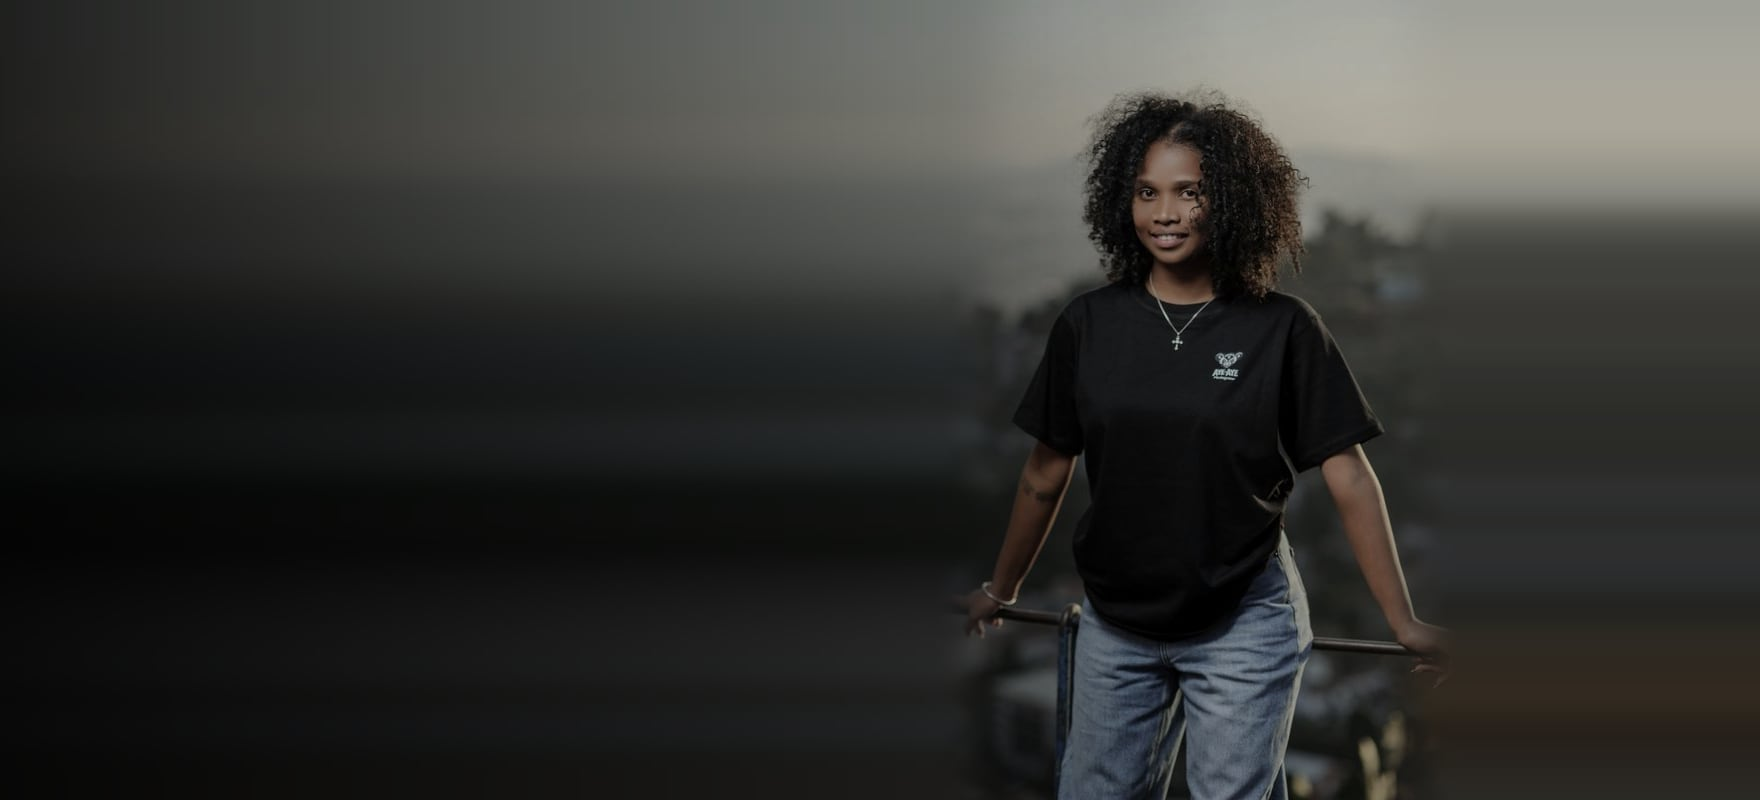
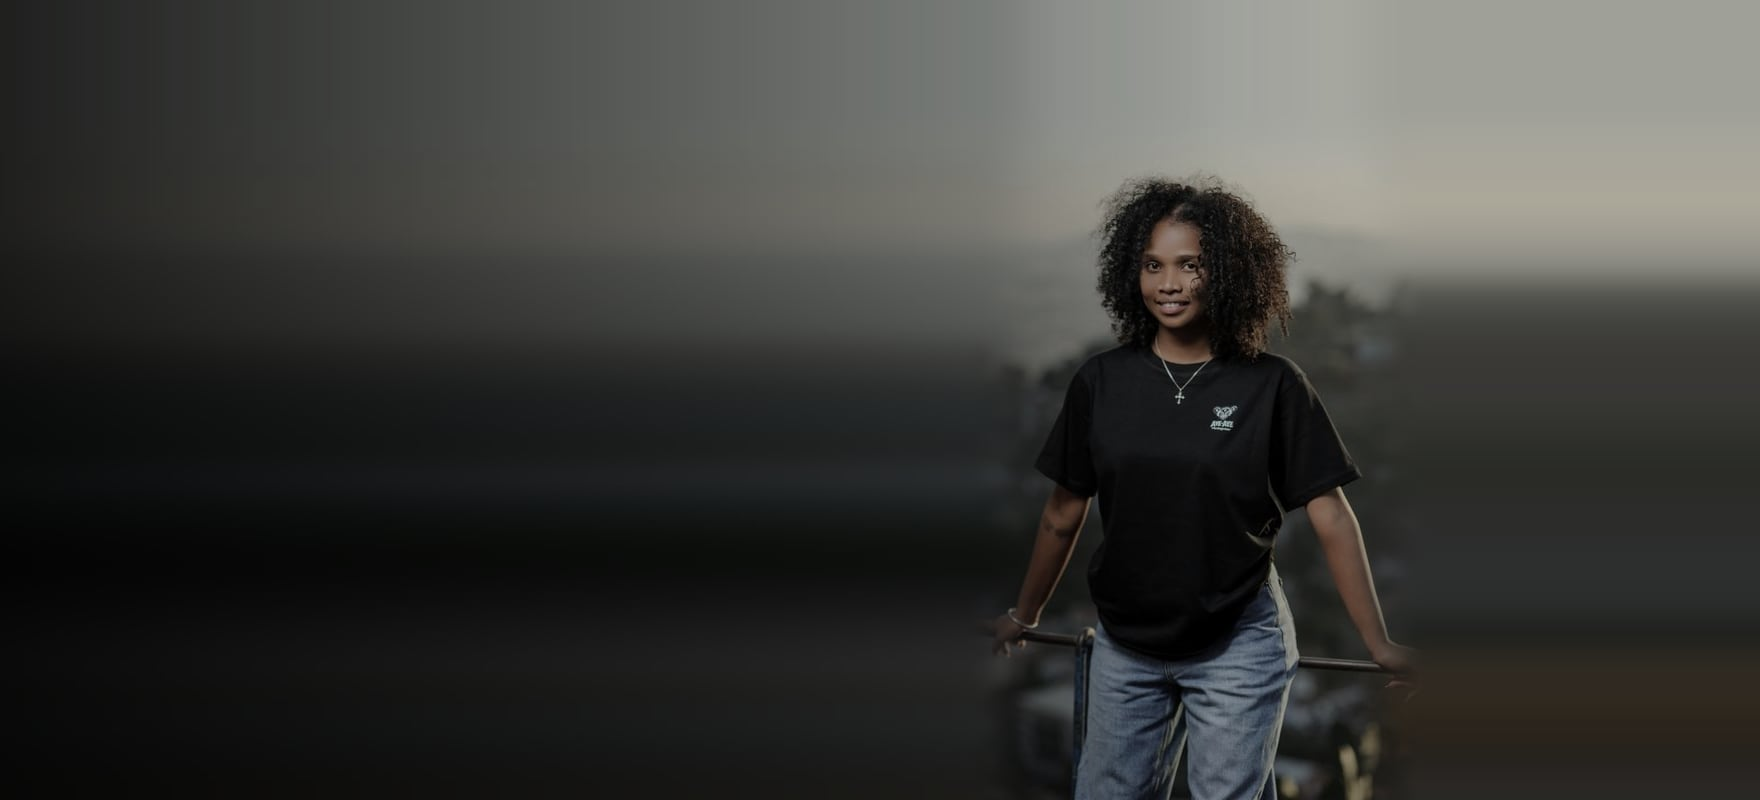
Bannière : défilement infini, sans points ; en-tête transparent sur tablette
- Carrousel en boucle infinie vers la gauche, sans pause au survol ;
  points supprimés (glissement du doigt seulement, touch-action: pan-y
  pour que le navigateur ne le prenne pas pour « page précédente »).
- En-tête transparent sur la bannière dès 768 px (tablette comprise).
- Images 1 et 3 : personnage réduit pour que la tête tombe, comme sur
  la photo au tee-shirt rouge, nettement sous l'en-tête.

Changed region(s): [[0.3438, 0.0938, 1.0, 1.0], [0.6875, 0.5, 0.7188, 0.5312]]

diff --git a/app/components/CarrouselBanniere.js b/app/components/CarrouselBanniere.js
@@ -2,20 +2,21 @@
 
 // Carrousel de la banniere d'accueil : les images glissent vers la gauche
 // sous le texte, qui reste fixe. Le texte est passe en `children` : il est
-// dans la zone du carrousel, si bien que le glissement du doigt et le survol
-// y fonctionnent aussi.
+// dans la zone du carrousel, si bien que le glissement du doigt y fonctionne
+// aussi.
 //
 // Composant React plutot qu'owl-carousel : la banniere n'est pas clonee par
 // owl, les gestionnaires React y fonctionnent, et chaque diapositive garde
 // ses trois formats (<picture> : mobile, tablette, ordinateur) et le
 // cadrage plein ecran d'aye-aye.css.
 //
-// - defilement toutes les 6 s vers la gauche, en pause au survol, au focus
-//   clavier et quand l'onglet est masque ; aucun defilement automatique si le
+// - defilement infini toutes les 6 s vers la gauche (apres la derniere image,
+//   la premiere revient par la droite), sans pause au survol, a la demande de
+//   la marque ; seulement suspendu quand l'onglet est masque, et absent si le
 //   visiteur a demande moins d'animations ;
-// - points (partout) et glissement du doigt ; revenir en arriere (doigt vers
-//   la droite, point precedent) fait glisser dans l'autre sens.
-// Pas de fleches, a la demande de la marque.
+// - glissement du doigt (tactile) ; vers la droite, l'image precedente revient
+//   par la gauche.
+// Ni fleches ni points, a la demande de la marque.
 
 import { useEffect, useRef, useState } from 'react';
 
@@ -27,7 +28,6 @@ export default function CarrouselBanniere({ diapos, children }) {
   const [precedent, setPrecedent] = useState(null);
   const [attente, setAttente] = useState(null); // diapositive placee, prete a entrer
   const [sens, setSens] = useState(1); // 1 : vers la gauche ; -1 : vers la droite
-  const [survol, setSurvol] = useState(false);
   const [cache, setCache] = useState(false);
   const depart = useRef(null);
   const nombre = diapos.length;
@@ -59,7 +59,7 @@ export default function CarrouselBanniere({ diapos, children }) {
 
   // defilement automatique, toujours vers la gauche
   useEffect(() => {
-    if (survol || cache || nombre < 2 || attente !== null) return undefined;
+    if (cache || nombre < 2 || attente !== null) return undefined;
     if (window.matchMedia('(prefers-reduced-motion: reduce)').matches) return undefined;
     const minuteur = setTimeout(() => aller(actif + 1, 1), DUREE);
     return () => clearTimeout(minuteur);
@@ -85,10 +85,6 @@ export default function CarrouselBanniere({ diapos, children }) {
       role="region"
       aria-roledescription="carrousel"
       aria-label="Bannière"
-      onMouseEnter={() => setSurvol(true)}
-      onMouseLeave={() => setSurvol(false)}
-      onFocus={() => setSurvol(true)}
-      onBlur={() => setSurvol(false)}
       onTouchStart={(e) => {
         depart.current = e.touches[0].clientX;
       }}
@@ -120,20 +116,6 @@ export default function CarrouselBanniere({ diapos, children }) {
 
       {children}
 
-      {nombre > 1 && (
-        <div className="aye-diapos-points">
-          {diapos.map((diapo, index) => (
-            <button
-              type="button"
-              key={diapo.large}
-              className={index === actif ? 'actif' : undefined}
-              aria-label={'Image ' + (index + 1) + ' sur ' + nombre}
-              aria-current={index === actif ? 'true' : undefined}
-              onClick={() => aller(index)}
-            />
-          ))}
-        </div>
-      )}
     </div>
   );
 }

diff --git a/public/assets/css/aye-aye.css b/public/assets/css/aye-aye.css
@@ -402,13 +402,10 @@ footer .aye-logo img[width][height] {
 }
 
 /* --- Banniere plein ecran (768 px et plus) ----------------------------------
-   Bord a bord, collee sous l'en-tete de 120 px (sans les 60 px blancs du
-   template), a la demande de la marque. Sur mobile, le hero l'est deja (voir
+   Bord a bord, a la demande de la marque ; elle passe sous l'en-tete
+   transparent (voir « en-tete transparent sur la banniere »). Sur mobile, le hero l'est deja (voir
    le bloc « Version mobile »). */
 @media (min-width: 768px) {
-  .main-banner {
-    padding-top: 120px;
-  }
   .main-banner > .container-fluid {
     padding-left: 0;
     padding-right: 0;
@@ -450,14 +447,14 @@ footer .aye-logo img[width][height] {
   }
 }
 
-/* --- Accueil, ordinateur : en-tete transparent sur la banniere ---------------
+/* --- Accueil, tablette et ordinateur : en-tete transparent sur la banniere -----
    Comme sur mobile : sur la banniere, l'en-tete est transparent (logo blanc,
    liens et icones blancs) et reste en place ; des que la banniere est
    depassee, aye-aye.js ajoute aye-entete-opaque et custom.js
    background-header : il redevient blanc (en-tete collant du template). La
    banniere remonte donc sous l'en-tete, et son texte descend de la moitie de
    la hauteur de l'en-tete pour rester centre dans la partie visible. */
-@media (min-width: 992px) {
+@media (min-width: 768px) {
   .header-area.aye-entete-sur-hero {
     position: fixed;
   }
@@ -491,11 +488,14 @@ footer .aye-logo img[width][height] {
 /* --- Carrousel de la banniere (CarrouselBanniere.js) ------------------------
    La premiere image reste dans le flux et donne la hauteur ; les suivantes se
    superposent exactement (memes formats). Elles glissent vers la gauche
-   (transform pose par le composant) ; le texte et les points passent
-   au-dessus. */
+   (transform pose par le composant) ; le texte passe au-dessus. */
 .aye-diapos {
   position: relative;
   overflow: hidden;
+  /* gestes horizontaux pour le carrousel (glissement du doigt), et non pour
+     le navigateur (sinon il les prend pour « page precedente ») ; le
+     defilement vertical de la page reste normal */
+  touch-action: pan-y;
 }
 
 .aye-diapo {
@@ -518,30 +518,6 @@ footer .aye-logo img[width][height] {
 
 .main-banner .left-content .thumb .inner-content {
   z-index: 3;
-}
-
-.aye-diapos-points {
-  position: absolute;
-  left: 50%;
-  bottom: 22px;
-  z-index: 4;
-  display: flex;
-  gap: 10px;
-  transform: translateX(-50%);
-}
-
-.aye-diapos-points button {
-  width: 10px;
-  height: 10px;
-  padding: 0;
-  border: 1px solid #fff;
-  border-radius: 50%;
-  background: transparent;
-  cursor: pointer;
-}
-
-.aye-diapos-points button.actif {
-  background: #fff;
 }
 
 @media (prefers-reduced-motion: reduce) {
@@ -2110,9 +2086,6 @@ a.aye-moyen:hover .aye-moyen-valeur {
     left: 0;
     width: 100%;
     height: 100%;
-  }
-  .aye-diapos-points {
-    bottom: 12px;
   }
   /* texte en bas du hero, centre */
   .main-banner .left-content .thumb .inner-content {

diff --git a/CLAUDE.md b/CLAUDE.md
@@ -98,7 +98,7 @@ Read paths (`CompteurPanier`, `PanierDetail`, `Favoris`) are normal client compo
 
 ### Home banner
 
-One banner only, full width (`col-12`): the owner had the four Homme / Femme / Enfant / Accessoires tiles removed, on desktop and mobile; don't bring them back. It is a **carousel** (`CarrouselBanniere`, React, not owl: slides to the left every 6 s, back to the right when going to an earlier slide by swipe or dot; paused on hover/focus/hidden tab and under reduced motion; dots and swipe only, the owner had the arrows removed). The slide is a two-step state change (place the incoming slide off-screen without transition, then animate two frames later) so the direction is always right. The text block is passed as `children` so swipe and hover work over it too. Slides are listed in `DIAPOS` in `app/page.js`: 1 = the main image (DSC_1793), 2 = Femme_2, 3 = Femme_5, each with `mobile` / `tablette` / `large` files and a `position` (the subject's centre in the panoramic image, fed to `object-position` through `--aye-position`: 65 % for slide 1, 68 % for the two women, who span their whole photo with their arms). The first slide stays in the flow and gives the height; the others are stacked on it. For slide 1 the `<picture>` serves `banniere/principale-mobile.jpg` (portrait, full screen) under 768 px, `banniere/principale-tablette.jpg` (1050×700, text moved to `left: 40px; width: 54%` so it stays off the white shirt) from 768 to 991 px, and `banniere/principale-large.jpg` (1760×800, subject whole and centred at 65 % of the width, « au centre, un peu à droite » at the owner's request, dark backdrop on the left under the text) from 992 px, all made by `photos-cadrees.mjs`. From 768 px the banner is full bleed (no side gutters); from 768 to 991 px it starts right under the 120 px header. **From 992 px the home header is transparent over the banner, like on mobile** (fixed, white logo, links and icons; the active link keeps the template's `#aaa !important`), and turns white once the banner is scrolled past (`aye-entete-opaque` from aye-aye.js, `background-header` from custom.js). The banner then starts at the very top (`padding-top: 0`) and its text is shifted down by half the header (`top: calc(50% + 60px)`). From 992 px it fills the screen height: the panoramic image is `object-fit: cover` with `object-position: 65% center` (the subject stays at 65 % of the screen), and `height: max(100vw / 2.2, min(100vh, 96vw - 462px))`: never shorter than the image (no top/bottom crop, the head is never cut), otherwise the full screen height, capped so the subject stays ≥ 30 px from the text. The text box is `max-width: 38%` (40 % and `left: 60px` from 992 to 1279 px). Those numbers depend on the 65 % position in `photos-cadrees.mjs`: change both together. Only backdrop is ever trimmed.
+One banner only, full width (`col-12`): the owner had the four Homme / Femme / Enfant / Accessoires tiles removed, on desktop and mobile; don't bring them back. It is a **carousel** (`CarrouselBanniere`, React, not owl: slides to the left every 6 s in an infinite loop (after the last slide the first comes in from the right); it does **not** pause on hover (owner's request), only when the tab is hidden, and doesn't autoplay under reduced motion. No arrows, no dots (both removed by the owner): swipe only, a right swipe goes back and slides the other way. `.aye-diapos` has `touch-action: pan-y`, otherwise the browser takes a horizontal swipe for « back » and leaves the page). The slide is a two-step state change (place the incoming slide off-screen without transition, then animate two frames later) so the direction is always right. The text block is passed as `children` so swipe and hover work over it too. Slides are listed in `DIAPOS` in `app/page.js`: 1 = the main image (DSC_1793), 2 = Femme_2, 3 = Femme_5, each with `mobile` / `tablette` / `large` files and a `position` (the subject's centre in the panoramic image, fed to `object-position` through `--aye-position`: 65 % for slide 1, 68 % for the two women, who span their whole photo with their arms). The first slide stays in the flow and gives the height; the others are stacked on it. For slide 1 the `<picture>` serves `banniere/principale-mobile.jpg` (portrait, full screen) under 768 px, `banniere/principale-tablette.jpg` (1050×700, text moved to `left: 40px; width: 54%` so it stays off the white shirt) from 768 to 991 px, and `banniere/principale-large.jpg` (1760×800, subject whole and centred at 65 % of the width, « au centre, un peu à droite » at the owner's request, dark backdrop on the left under the text) from 992 px, all made by `photos-cadrees.mjs`. From 768 px the banner is full bleed (no side gutters) and **the home header is transparent over the banner, like on mobile** (tablet and desktop) (fixed, white logo, links and icons; the active link keeps the template's `#aaa !important`), and turns white once the banner is scrolled past (`aye-entete-opaque` from aye-aye.js, `background-header` from custom.js). The banner then starts at the very top (`padding-top: 0`) and its text is shifted down by half the header (`top: calc(50% + 60px)`). The subjects' heads sit at about 22 % of the image height on all three slides, well under the header: `echelle` 0.85 for DSC_1793 (large and tablet), 0.88 for Femme_5, 1 for Femme_2, which has plenty of sky. From 992 px it fills the screen height: the panoramic image is `object-fit: cover` with `object-position: 65% center` (the subject stays at 65 % of the screen), and `height: max(100vw / 2.2, min(100vh, 96vw - 462px))`: never shorter than the image (no top/bottom crop, the head is never cut), otherwise the full screen height, capped so the subject stays ≥ 30 px from the text. The text box is `max-width: 38%` (40 % and `left: 60px` from 992 to 1279 px). Those numbers depend on the 65 % position in `photos-cadrees.mjs`: change both together. Only backdrop is ever trimmed.
 
 ### Card frame
 
